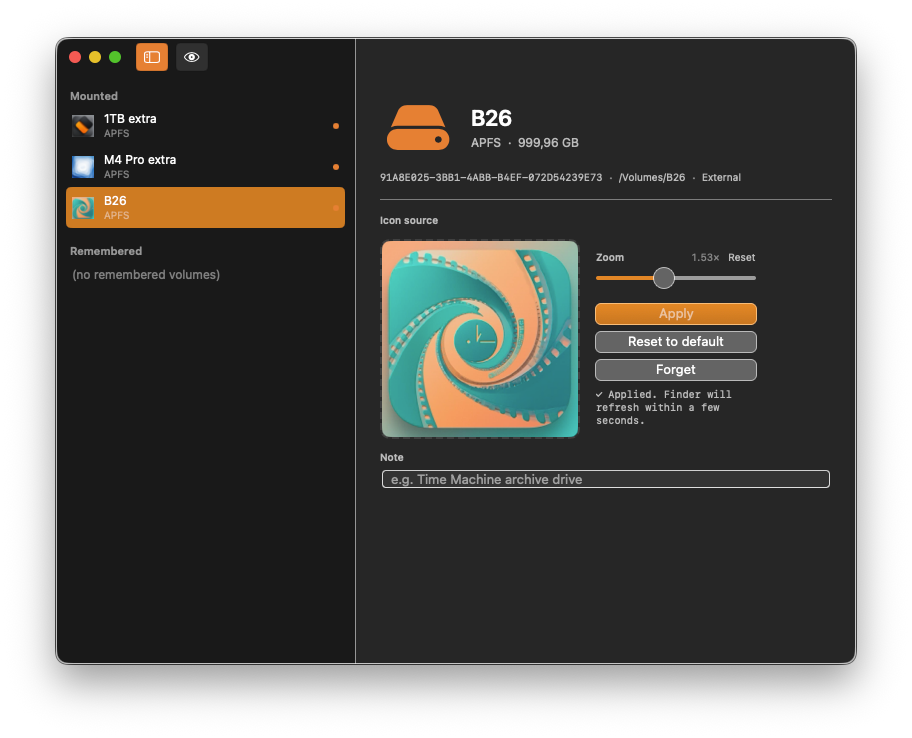
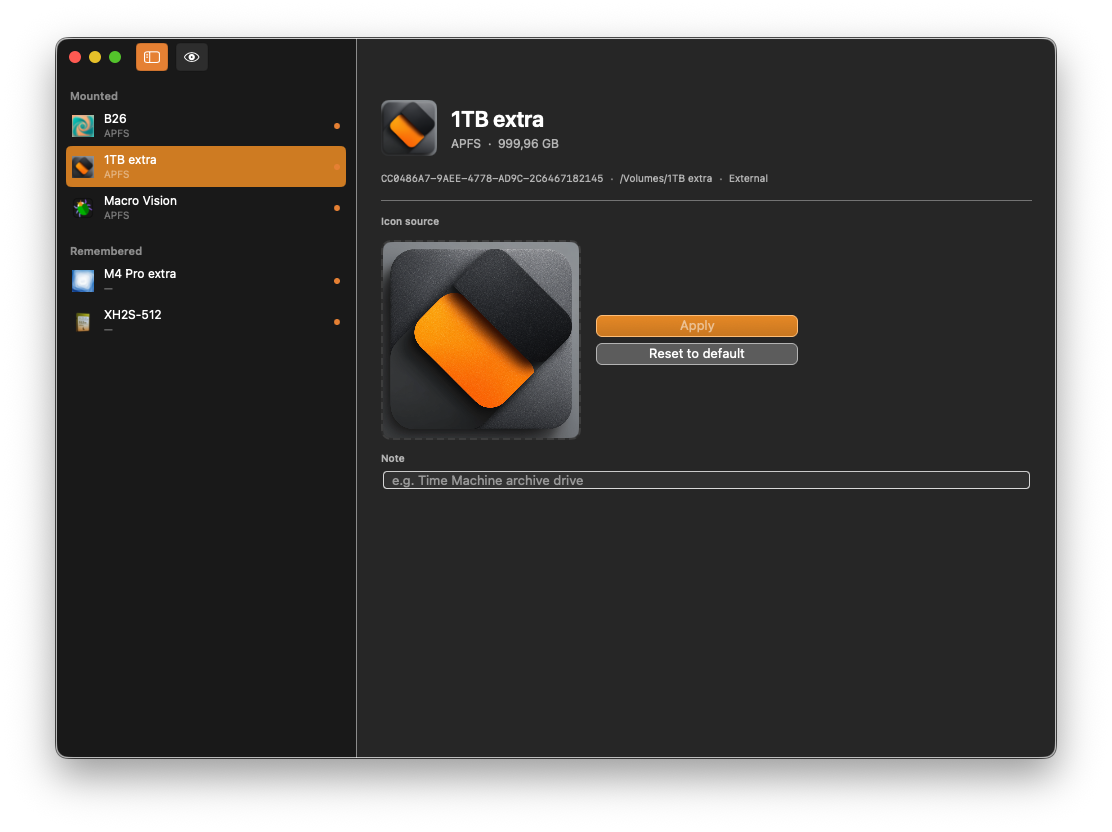
docs(README): refresh screenshots for v1.0.1, add Permission prompt
- Sigil-1-Hero.png: re-shot on v1.0.1 chrome (no zoom slider)
- Sigil-2-Permission.png: new — macOS Removable Volumes TCC dialog
  introduced by v1.0.1's NSRemovableVolumesUsageDescription
- Sigil-3-applied.png: re-shot on v1.0.1 (renumbered from -2)
- Sigil-4-Finder.png: renumbered from -3, content unchanged
- Sigil-5-remembered.png: unchanged
- README screenshot block reordered + new Permission caption

Changed region(s): [[0.0307, 0.0312, 0.9518, 0.935]]

diff --git a/README.md b/README.md
@@ -14,10 +14,13 @@ A macOS app that assigns custom icons to external volumes — and **remembers th
 ![Sigil main window](03_Screenshots/Sigil-1-Hero.png)
 *Main window — sidebar lists mounted and remembered volumes, detail pane holds the drop zone and actions*
 
-![Applied state](03_Screenshots/Sigil-2-applied.png)
+![Removable Volumes permission prompt](03_Screenshots/Sigil-2-Permission.png)
+*Permission prompt — on macOS 13+, the first apply asks for Removable Volumes access; click Allow*
+
+![Applied state](03_Screenshots/Sigil-3-applied.png)
 *Applied state — current icon fills the canvas, ready to reset or replace*
 
-![Custom icon in Finder](03_Screenshots/Sigil-3-Finder.png)
+![Custom icon in Finder](03_Screenshots/Sigil-4-Finder.png)
 *Finder — custom icons persist on the volume, visible anywhere macOS shows drive icons*
 
 ![Remembered volumes](03_Screenshots/Sigil-5-remembered.png)
